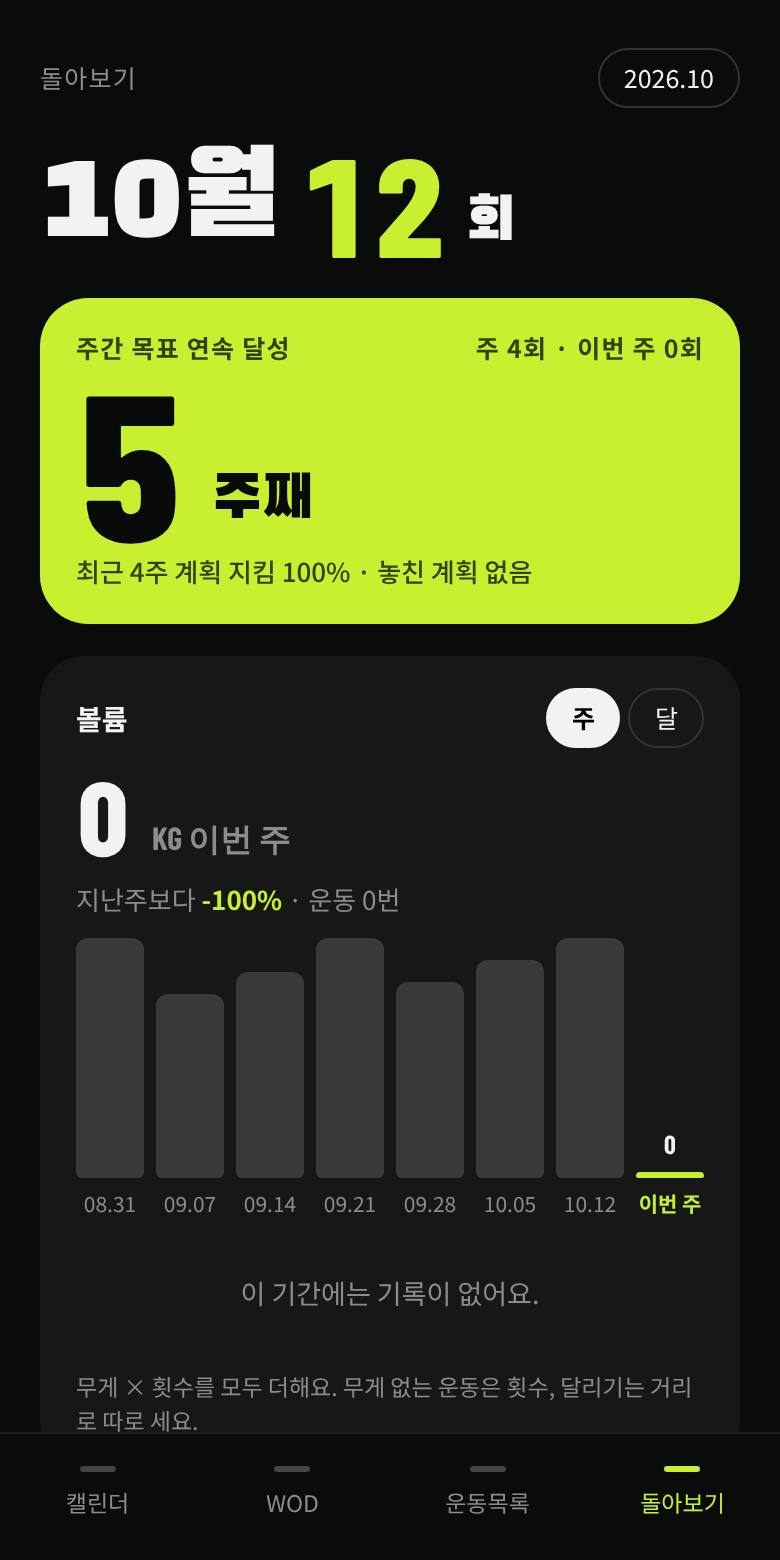
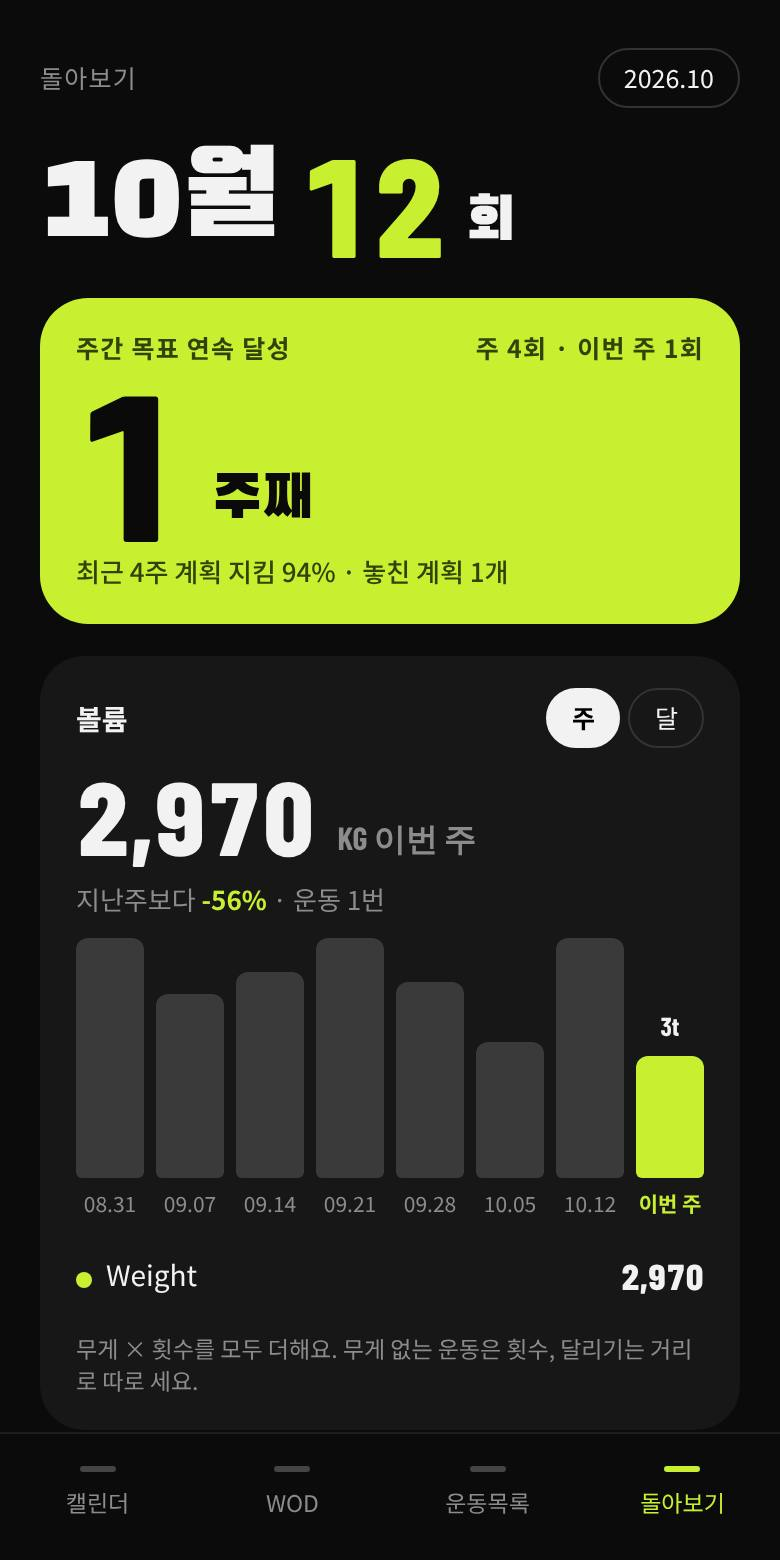
Paste a WOD text in 불러오기 to fill the card; other spellings find saved exercises
Claude-Session: https://claude.ai/code/session_019eoxjeUYsC1xCLQy9vy9QX

diff --git a/index.html b/index.html
@@ -282,6 +282,10 @@ textarea.inp{resize:vertical;min-height:70px;line-height:1.6}
 .rst{display:flex;flex-direction:column;gap:6px;justify-content:center}
 .rst button{border:1.5px solid var(--lime-ink);border-radius:10px;padding:6px 10px;font-size:12px;font-weight:800;background:none;color:var(--lime-ink)}
 .rst button.on{background:var(--lime-ink);color:var(--lime)}
+.pmv{display:grid;grid-template-columns:78px minmax(0,1fr) 80px;gap:6px;align-items:stretch}
+.pmv span{background:#000;border:1px solid #2a2a2a;border-radius:10px;padding:8px 9px;font-weight:700;font-size:14px;min-width:0;overflow-wrap:anywhere}
+.pmv .n{font-family:var(--num);font-size:17px;white-space:nowrap}
+.pmv .new{border-color:var(--orange)}.pmv small{display:block;font-size:11px;color:var(--orange)}
 .mini-p{font-size:12px;font-weight:700;border-radius:99px;padding:4px 10px;border:1px solid var(--lime);color:var(--lime);background:none}
 .mini-p.on{background:var(--lime);color:#000}
 .groupbar{position:sticky;bottom:12px;display:flex;gap:8px;align-items:center;background:#1F1F1F;border:1px solid #333;border-radius:18px;padding:10px 12px;z-index:5}
@@ -1033,7 +1037,136 @@ function exEditCard(it, i) {
 }
 /* put an exercise into the first empty row of a group, or a new row; in a 세트 group the last sets come along */
 function putMove(p, ex) { let m = p.moves.find(x => !x.n.trim()); if (!m) p.moves.push(m = blankMove()); m.n = ex.name; m.exId = ex.id; if (isSetPart(p)) fillMoveSets(m, ui.draft?.date); return m; }
-const findEx = name => state.exercises.find(e => exIs(e, name));
+/* ---------- WOD text paste (rules tested on their own first: /mnt/project-files/app/wodparse) ---------- */
+/* WOD text → card: 구성 chips (formats + number chips), exercise rows (qty, name, weight), and lines it could not read.
+   Rules only, runs on the phone. parseWod(text, exercises) → {fmts, pats, moves, notes, lines} */
+(function (root) {
+  /* exercise names people write, mapped to the app's English names; the user's own list is matched too */
+  const ALIAS = {
+    'Thruster':['thrusters','thruster','스러스터'], 'Pull-up':['pull-ups','pull ups','pullups','pull-up','pull up','pullup','풀업','턱걸이'],
+    'Chest-to-Bar Pull-up':['chest to bar pull-ups','chest-to-bar pull-ups','chest to bar','chest-to-bar','c2b pull-ups','c2b','ctb'],
+    'Push-up':['push-ups','push ups','pushups','push-up','push up','pushup','푸시업','푸쉬업'], 'Hand Release Push-up':['hand release push-ups','hand release push-up','hrpu'],
+    'Air Squat':['air squats','air squat','air sq','squats','squat','에어스쿼트','에어 스쿼트'], 'Sit-up':['sit-ups','sit ups','situps','sit-up','sit up','abmat sit-ups','abmat sit-up','싯업','윗몸일으키기'],
+    'Burpee':['burpees','burpee','버피'], 'Bar-facing Burpee':['bar facing burpees','bar-facing burpees','bar facing burpee','bfb'], 'Burpee Box Jump Over':['burpee box jump overs','burpee box jump over','bbjo'],
+    'Double Under':['double unders','double-unders','double under','double-under','dus','du','더블언더'], 'Single Under':['single unders','single-unders','single under','singles','su'],
+    'Handstand Push-up':['handstand push-ups','handstand push-up','hspu','핸드스탠드 푸시업','물구나무 푸시업'], 'Handstand Walk':['handstand walk','hs walk','hsw'],
+    'Toes-to-Bar':['toes to bar','toes-to-bar','t2b','ttb','토투바'], 'Knees-to-Elbow':['knees to elbows','knees-to-elbows','k2e'],
+    'Muscle-up':['ring muscle-ups','ring muscle ups','ring muscle-up','muscle-ups','muscle ups','muscle-up','muscle up','rmu','머슬업'], 'Bar Muscle-up':['bar muscle-ups','bar muscle ups','bar muscle-up','bmu','바 머슬업'],
+    'Box Jump':['box jumps','box jump','bj','박스점프','박스 점프'], 'Box Jump Over':['box jump overs','box jump over','bjo'], 'Box Step-up':['box step-ups','box step ups','step-ups','step ups'],
+    'Wall Ball':['wall ball shots','wall balls','wall ball','wallballs','wallball','wb','월볼'], 'Kettlebell Swing':['kettlebell swings','kettlebell swing','kb swings','kb swing','kbs','american kbs','케틀벨 스윙','케틀벨스윙'],
+    'Deadlift':['deadlifts','deadlift','dl','데드리프트','데드'], 'Sumo Deadlift High Pull':['sumo deadlift high pulls','sumo deadlift high pull','sdhp'],
+    'Back Squat':['back squats','back squat','bs','백스쿼트','백 스쿼트','스쿼트'], 'Front Squat':['front squats','front squat','fs','프론트스쿼트','프론트 스쿼트'],
+    'Overhead Squat':['overhead squats','overhead squat','ohs','오버헤드 스쿼트','오버헤드스쿼트'], 'Bench Press':['bench press','bench','bp','벤치프레스','벤치'],
+    'Overhead Press':['strict press','shoulder press','overhead press','ohp','밀리터리 프레스','오버헤드프레스'], 'Push Press':['push press','pp','푸시프레스'],
+    'Push Jerk':['push jerks','push jerk','pj','푸시저크'], 'Split Jerk':['split jerks','split jerk'], 'Shoulder to Overhead':['shoulder to overhead','shoulder-to-overhead','s2oh','sto'],
+    'Ground to Overhead':['ground to overhead','ground-to-overhead','g2oh'], 'Clean & Jerk':['clean and jerks','clean & jerks','clean and jerk','clean & jerk','c&j','cj','클린앤저크','클린 앤 저크'],
+    'Clean':['squat cleans','squat clean','cleans','clean','클린'], 'Power Clean':['power cleans','power clean','pc','파워클린','파워 클린'], 'Hang Power Clean':['hang power cleans','hang power clean','hpc','행 파워클린','행파워클린'],
+    'Hang Clean':['hang squat cleans','hang cleans','hang clean'], 'Snatch':['squat snatches','snatches','snatch','스내치'], 'Power Snatch':['power snatches','power snatch','psn','파워스내치','파워 스내치'],
+    'Hang Power Snatch':['hang power snatches','hang power snatch','hps'], 'Squat Snatch':['스쿼트 스내치'], 'Barbell Row':['bent over rows','barbell rows','barbell row','바벨로우','바벨 로우'],
+    'Lunge':['walking lunges','walking lunge','lunges','lunge','런지'], 'Overhead Lunge':['overhead walking lunges','overhead lunges','overhead lunge','oh lunges','oh lunge'],
+    'Dumbbell Snatch':['dumbbell snatches','dumbbell snatch','db snatches','db snatch','덤벨 스내치'], 'Dumbbell Thruster':['dumbbell thrusters','dumbbell thruster','db thrusters','db thruster'],
+    'Devil Press':['devil presses','devil press','데빌프레스'], 'Ring Row':['ring rows','ring row','링 로우'], 'Ring Dip':['ring dips','ring dip','dips','dip','링 딥스','딥스'],
+    'Rope Climb':['rope climbs','rope climb','rc','로프 클라임','로프클라임'], 'Pistol Squat':['pistol squats','pistols','pistol','피스톨 스쿼트','피스톨'],
+    'Back Extension':['back extensions','back extension','백 익스텐션'], 'GHD Sit-up':['ghd sit-ups','ghd sit-up','ghd situps','ghd'], 'Plank':['plank hold','plank','플랭크'],
+    'V-up':['v-ups','v ups','v-up'], 'Hollow Hold':['hollow rocks','hollow hold','hollow'], 'Burpee Pull-up':['burpee pull-ups','burpee pull-up'],
+    'Run':['running','run','러닝','달리기','런'], 'Row':['rowing','row','erg row','c2 row','로잉머신','로잉'], 'Bike':['assault bike','echo bike','air bike','bike erg','bikeerg','bike','사이클','바이크','에어바이크'],
+    'SkiErg':['ski erg','skierg','ski','스키에르그','스키'], 'Freestyle':['freestyle','swim','자유형','수영'], 'Breaststroke':['breaststroke','평영'],
+    'Farmer Carry':["farmer's carry",'farmers carry','farmer carry','파머스 캐리'], 'Sled Push':['sled push','썰매 밀기'], 'Jumping Jack':['jumping jacks','jumping jack','점핑잭'],
+    'Mountain Climber':['mountain climbers','mountain climber','마운틴 클라이머'], 'Shuttle Run':['shuttle runs','shuttle run','셔틀런'], 'Jump Rope':['jump rope','줄넘기']
+  };
+  const FMT = [ // order matters: longer first
+    ['igyg', 'I Go You Go', /\b(i\s*go\s*,?\s*you\s*go|igyg|you\s*go\s*i\s*go|ygig)\b/i],
+    ['deathby', 'Death By', /\bdeath\s*by\b/i],
+    ['tabata', 'Tabata', /\btabata\b|타바타/i],
+    ['emom', 'EMOM', /\b(e\d*mom|every\s+\d*\s*min(ute)?s?(\s+on\s+the\s+minute)?|otm)\b/i],
+    ['amrap', 'AMRAP', /\b(amrap|amraps)\b|최대한\s*많이/i],
+    ['fortime', 'For Time', /\b(for\s*time|rft|ft)\b|기록\s*단축/i],
+    ['chipper', 'Chipper', /\bchipper\b/i]
+  ];
+  const norm = s => String(s || '').toLowerCase().replace(/[’']/g, "'").replace(/\s+/g, ' ').trim();
+  /* one key for every way of writing a name: case, hyphens, spaces and a plural s don't matter (TTB = T2B = Toes to Bar = toes-to-bars) */
+  const key = s => norm(s).replace(/[-_]/g, ' ').replace(/\s+/g, ' ').trim();
+  const one = s => key(s).replace(/([a-z]{3})s$/, '$1'); // wall ball shots = wall ball shot
+  const reEsc = s => s.replace(/[.*+?^${}()|[\]\\]/g, '\\$&');
+  function dictFrom(exercises) {
+    const group = {}, d = [];
+    for (const [en, al] of Object.entries(ALIAS)) for (const a of [en, ...al]) { group[key(a)] = en; group[one(a)] ||= en; }
+    /* a name already saved in 운동목록 wins: matching any spelling gives back the saved name */
+    const saved = {};
+    for (const e of exercises || []) { const g = group[key(e.name)] || group[one(e.name)] || (e.ko && (group[key(e.ko)] || group[one(e.ko)])); if (g) saved[g] = e.name; else { group[key(e.name)] = e.name; saved[e.name] = e.name; if (e.ko) group[key(e.ko)] = e.name; } }
+    for (const [k, g] of Object.entries(group)) {
+      const hangul = /[가-힣]/.test(k), body = k.split(' ').map(reEsc).join('[\\s\\-]*');
+      d.push({k, name:saved[g] || g, known:!!saved[g], re:new RegExp(hangul ? body : `(^|[\\s/@x×*(,])(${body})(?:e?s)?(?=$|[\\s/@x×*),.:;])`, 'i')});
+    }
+    return d.sort((a, b) => b.k.replace(/ /g, '').length - a.k.replace(/ /g, '').length);
+  }
+  /* find the longest known name inside the text, on word edges */
+  function findEx(txt, dict) {
+    const t = ' ' + norm(txt).replace(/[.,;:()]/g, ' ') + ' ';
+    for (const e of dict) { const m = t.match(e.re); if (!m) continue;
+      const at = m.index + (m[1] !== undefined && m.length > 2 ? m[1].length : 0) - 1;
+      return {name:e.name, known:e.known, at, len:m[0].length - (m.length > 2 ? m[1].length : 0)}; }
+    return null;
+  }
+  const WEIGHT_RE = /(@\s*)?\(?\s*(\d+(?:\.\d+)?(?:\s*\/\s*\d+(?:\.\d+)?)?)\s*(kg|kgs|lb|lbs|#|파운드|킬로)\s*\)?|\(\s*(\d+(?:\.\d+)?\s*\/\s*\d+(?:\.\d+)?)\s*\)|@\s*(\d+(?:\.\d+)?%?)/i;
+  const QTY_RE = /^(\d+\s*[x×]\s*\d+|\d+(?:\s*-\s*\d+)+|\d+(?:\.\d+)?\s*(?:m|km|cal|cals|calories|칼로리|mi|miles?|sec|secs|s|초|min|mins|분|회|reps?|개|미터)?|max|최대|\d+:\d{2})\b\.?\s*(?:x\s+|×\s*)?/i;
+  const unitFix = q => q.replace(/\s+/g, '').replace(/^(\d+)(cals?|calories|칼로리)$/i, '$1cal').replace(/^(\d+)(reps?|회|개)$/i, '$1').replace(/^(\d+)(secs?|s|초)$/i, '$1초').replace(/^(\d+)(mins?|분)$/i, '$1분').replace(/^(\d+)미터$/, '$1m').replace(/^(\d+)[x×](\d+)$/i, '$1x$2').replace(/^(\d+(?:\.\d+)?)(mi|miles?)$/i, (_, n) => `${Math.round(n * 16.09) / 10}km`).replace(/^max$|^최대$/i, '최대');
+  function parseWod(text, exercises) {
+    const dict = dictFrom(exercises), out = {fmts:[], pats:[], moves:[], notes:[], lines:[]};
+    const addPat = (t, v) => { if (!out.pats.some(p => p.t === t && p.v === v)) out.pats.push({t, v:String(v)}); };
+    const header = line => { let hit = false, s = line, m;
+      if ((m = s.match(/(\d+)\s*(?:rounds?|rds?|rft|라운드|세트)(?![a-z])/i))) { addPat('rounds', m[1]); hit = true; s = s.replace(/(\d+)\s*(?:rounds?|rds?|라운드|세트)(?![a-z])/i, ' ').replace(/^\s*\d+\s*(?=rft)/i, ' '); }
+      for (const [id, label, re] of FMT) if (re.test(s)) { if (!out.fmts.some(f => f.id === id)) out.fmts.push({id, label}); hit = true;
+        const e = s.match(/\be(\d+)mom\b/i); if (id === 'emom' && e && +e[1] > 1) out.every = e[1];
+        s = s.replace(re, ' '); }
+      if (out.fmts.length && (m = s.match(/^\s*[x×]\s*(\d+)\s*$/i))) { addPat('rounds', m[1]); hit = true; s = ''; }
+      if ((m = s.match(/team\s*of\s*(\d+)|(\d+)\s*인\s*1?\s*팀|팀\s*(\d+)/i))) { addPat('team', m[1] || m[2] || m[3]); hit = true; s = s.replace(m[0], ' '); }
+      else if (/\b(partner|pairs?|with a partner)\b|파트너|2인/i.test(s)) { addPat('team', '2'); hit = true; }
+      if ((m = s.match(/(?:time\s*)?cap\s*:?\s*(\d+)\s*(?:min|mins|분|')?|(\d+)\s*(?:min|mins|분|')\s*(?:time\s*)?cap|타임캡\s*(\d+)/i))) { out.cap = m[1] || m[2] || m[3]; hit = true; s = s.replace(m[0], ' '); }
+      if ((m = s.match(/(\d+)\s*(?:min|mins|minutes|분|')(?!\w)/i))) { if (out.fmts.length) { addPat('time', m[1]); hit = true; s = s.replace(m[0], ' '); } }
+      else if (out.fmts.some(f => ['amrap', 'emom'].includes(f.id)) && (m = s.match(/^\s*:?\s*(\d+)\s*$/))) { addPat('time', m[1]); hit = true; s = ''; }
+      if ((m = s.match(/(?:^|\s)(\d+(?:\s*-\s*\d+){1,})(?:\s|$)/))) { addPat('scheme', m[1].replace(/\s+/g, '')); hit = true; s = s.replace(m[1], ' '); }
+      return hit && !findEx(s, dict) ? true : hit ? s : false;
+    };
+    for (let raw of String(text || '').split(/\r?\n/)) {
+      let line = raw.replace(/^\s*(?:[-–•·▪►>]+|\d+[.)]\s+|[a-z][.)]\s+)/i, '').trim();
+      if (!line) continue;
+      if (/^(warm[\s-]?up|cool[\s-]?down|strength|metcon|wod|skill|score|rest|오늘의\s*(와드|wod)|daily\s*wod)\b\s*:?\s*$/i.test(line) || /^오늘의\s*(와드|wod)\s*$/i.test(line)) { out.lines.push({raw, kind:'skip'}); continue; }
+      const cm = line.match(/(?:time\s*)?cap\s*:?\s*(\d+)|(\d+)\s*(?:min|mins|분|')\s*(?:time\s*)?cap|타임캡\s*(\d+)/i);
+      if (cm && !findEx(line, dict)) { out.cap = cm[1] || cm[2] || cm[3]; out.lines.push({raw, kind:'fmt'}); continue; }
+      if (/^\*|^note|^메모|^\(/i.test(line) && !findEx(line, dict)) { out.notes.push(line.replace(/^\*\s*/, '')); out.lines.push({raw, kind:'note'}); continue; }
+      const h = header(line);
+      if (h === true) { out.lines.push({raw, kind:'fmt'}); continue; }
+      if (typeof h === 'string') line = h.trim();
+      const ex = findEx(line, dict);
+      if (!ex) { if (h) { out.lines.push({raw, kind:'fmt'}); continue; } out.notes.push(line); out.lines.push({raw, kind:'note'}); continue; }
+      let rest = norm(line), w = '', q = '';
+      const wm = line.match(WEIGHT_RE);
+      if (wm) { w = wm[2] ? wm[2].replace(/\s+/g, '') + ({'#':'lb', lbs:'lb', kgs:'kg', '파운드':'lb', '킬로':'kg'}[wm[3].toLowerCase()] || wm[3].toLowerCase()) : wm[4] ? wm[4].replace(/\s+/g, '') + 'kg' : wm[5]; rest = norm(line.replace(wm[0], ' ')); }
+      const before = rest.slice(0, Math.max(0, findEx(rest, dict)?.at ?? 0)).trim(), after = rest.slice((findEx(rest, dict)?.at ?? 0) + (findEx(rest, dict)?.len ?? 0)).trim();
+      const qm = before.match(QTY_RE) || after.replace(/^[x×*:]\s*/, '').match(QTY_RE);
+      if (qm) q = unitFix(qm[1]);
+      if (/^cal\b|^calorie/i.test(after) && /^\d+$/.test(q)) q += 'cal';
+      if (/^(m|meter|미터)\b/i.test(after) && /^\d+$/.test(q)) q += 'm';
+      const known = ex.known;
+      out.moves.push({q, n:ex.name, w, isNew:!known});
+      out.lines.push({raw, kind:'move'});
+    }
+    if (out.cap) out.notes.unshift(`타임캡 ${out.cap}분`);
+    if (out.every) out.notes.unshift(`${out.every}분마다`);
+    const f = out.fmts[0]?.id;
+    out.res = f === 'amrap' ? 'rr' : f === 'fortime' || f === 'igyg' || f === 'chipper' ? 'time' : f === 'tabata' ? 'reps' : f === 'deathby' ? 'rr' : f === 'emom' ? 'text' : 'text';
+    if (out.pats.some(p => p.t === 'scheme')) out.moves.forEach(m => { if (m.q === out.pats.find(p => p.t === 'scheme').v) m.q = ''; });
+    return out;
+  }
+  /* a typed exercise name written another way (t2b, toes-to-bars) → the saved exercise's name, or '' */
+  function sameEx(txt, exercises) { const k = key(txt); if (!k) return '';
+    const f = findEx(txt, dictFrom(exercises)); return f && f.known && f.at <= 0 && f.len >= k.replace(/ /g, '').length - 2 ? f.name : ''; }
+  root.parseWod = parseWod; root.sameEx = sameEx;
+})(typeof window !== 'undefined' ? window : globalThis);
+
+/* a name written another way (t2b, toes-to-bars) finds the saved exercise too */
+const findEx = name => state.exercises.find(e => exIs(e, name)) || (name && String(name).trim() && state.exercises.find(e => e.name === sameEx(name, state.exercises)));
 /* WOD card: each part is a frame (format + pattern) followed by its exercises; a frame can be inserted between exercises */
 function usage() { const c = {}; for (const s of state.sessions) for (const it of s.items) { if (it.type === 'ex') c[it.exId] = (c[it.exId] || 0) + 1; else wodMoves(it).forEach(m => { if (m.exId) c[m.exId] = (c[m.exId] || 0) + 1; }); } return c; }
 /* one 방식 row: tap to pick or unpick, several at once; a chip with N shows its number box below */
@@ -1143,7 +1276,7 @@ function wodCard(it, i) {
   const savedIn = it.wodId && (state.mine.find(w => w.id === it.wodId)?.col || (state.mine.some(w => w.id === it.wodId) ? 'mine' : state.named.some(w => w.id === it.wodId && w.own) && state.wodTabs.some(x => x.k === 'named') ? 'named' : '')), mine = !!savedIn;
   return `<div class="card wc">
     <div class="row between" style="gap:8px"><input class="inp big" data-wn="${i}" value="${esc(it.name)}" placeholder="${tpl ? 'WOD 제목' : 'Daily WOD'}" aria-label="WOD 제목" style="font-family:var(--num);font-weight:800;font-size:28px;padding:6px 10px">
-      ${it.wodId && !tpl ? '<span class="pill lime">불러옴</span>' : ''}${tpl ? '' : `<button class="pill" style="font-size:12px;padding:5px 10px;white-space:nowrap" data-action="pick-wod" data-i="${i}">불러오기</button>`}${tpl || curItems().length < 2 ? '' : `<button class="icon" data-action="remove-item" data-i="${i}" aria-label="WOD 빼기">✕</button>`}</div>
+      ${it.wodId && !tpl ? '<span class="pill lime">불러옴</span>' : ''}<button class="pill" style="font-size:12px;padding:5px 10px;white-space:nowrap" data-action="pick-wod" data-i="${i}">${tpl ? '글 붙여넣기' : '불러오기'}</button>${tpl || curItems().length < 2 ? '' : `<button class="icon" data-action="remove-item" data-i="${i}" aria-label="WOD 빼기">✕</button>`}</div>
     ${tpl ? '' : `<div class="row" style="gap:6px;flex-wrap:wrap">${cats().map(c => `<button class="chip sm" aria-pressed="${cardCat(it) === c.k}" data-action="card-cat" data-i="${i}" data-v="${c.k}"><i class="dot" style="background:${c.color}"></i>${esc(c.label)}</button>`).join('')}</div>`}
     ${it.parts.map((p, pi) => partHtml(it, i, p, pi)).join('')}
     ${freq.length ? `<div class="lbl">자주 한 운동</div><div class="chips2">${freq.map(e => `<button class="c2" data-action="mv-quick" data-i="${i}" data-id="${e.id}">${esc(e.name)}</button>`).join('')}</div>` : ''}
@@ -1363,9 +1496,34 @@ function sheetPickEx() {
     <input class="search" id="pickQ" type="search" placeholder="운동 검색" value="${esc(ui.pickQ)}" aria-label="운동 검색">
     <div class="chips">${[{k:'all', label:'전체'}, ...exCats()].map(c => `<button class="chip sm" aria-pressed="${ui.pickCat === c.k}" data-action="pick-cat" data-v="${c.k}">${c.label}</button>`).join('')}</div>
     <div id="pickList" style="display:flex;flex-direction:column;gap:10px">${pickList()}</div>`
-  : `<div class="row between"><h2 class="disp" style="font-size:30px">WOD 불러오기</h2>${ui.swapCard != null && !isBlankCard(curItems()[ui.swapCard] || {parts:[]}) ? '<span class="sub" style="font-size:12px">지금 카드 내용이 바뀌어요</span>' : ''}<button class="pill" data-action="close-sheet">닫기</button></div>
-    <input class="search" id="pickQ" type="search" placeholder="WOD 검색" value="${esc(ui.pickQ)}" aria-label="WOD 검색">
-    <div id="pickList" style="display:flex;flex-direction:column;gap:10px">${pickList()}</div>`);
+  : `<div class="row between"><h2 class="disp" style="font-size:30px">${ui.page === 'tpl' ? '글 붙여넣기' : 'WOD 불러오기'}</h2>${ui.swapCard != null && !isBlankCard(curItems()[ui.swapCard] || {parts:[]}) ? '<span class="sub" style="font-size:12px">지금 카드 내용이 바뀌어요</span>' : ''}<button class="pill" data-action="close-sheet">닫기</button></div>
+    ${pasteBox()}
+    ${ui.paste?.r || ui.page === 'tpl' ? '' : `<input class="search" id="pickQ" type="search" placeholder="저장한 WOD 찾기" value="${esc(ui.pickQ)}" aria-label="WOD 검색">
+    <div id="pickList" style="display:flex;flex-direction:column;gap:10px">${pickList()}</div>`}`);
+}
+/* 글 붙여넣기: paste a WOD text, check what was read, then fill the card */
+const PASTE_FMT = {chipper:'fortime'};
+const PASTE_PAT = {scheme:v => v, rounds:v => `${v} 라운드`, time:v => `${v}분`, team:v => `Team of ${v}`};
+function pasteBox() {
+  const P = ui.paste || {text:''}, r = P.r;
+  if (!r) return `<div class="card" style="border:1px solid var(--lime);gap:8px"><div class="row between"><b style="color:var(--lime)">글 붙여넣기</b><span class="sub" style="font-size:12px">단톡방·인스타 WOD</span></div>
+    <textarea class="inp" id="pasteT" rows="4" placeholder="여기에 WOD 글을 붙여넣어요" aria-label="WOD 글" style="font-size:16px;min-height:96px">${esc(P.text)}</textarea>
+    <button class="btn lime" data-action="paste-read">알아보기</button></div>`;
+  const sch = r.pats.find(x => x.t === 'scheme')?.v || '';
+  const chips = [...r.fmts.slice(0, 1).map(f => f.label), ...r.pats.map(x => PASTE_PAT[x.t]?.(x.v)).filter(Boolean)];
+  return `<div class="card" style="border:1px solid var(--lime);gap:10px"><div class="eb">알아본 내용 · 맞는지 보고 넣어요</div>
+    <div class="eb">구성</div><div class="chips2">${chips.map(c => `<span class="c2 on">${esc(c)}</span>`).join('') || '<span class="sub">못 찾았어요</span>'}</div>
+    <div class="eb">운동</div>${r.moves.map(m => `<div class="pmv"><span class="n">${esc(m.q || sch || '-')}</span><span class="t${m.isNew ? ' new' : ''}">${esc(m.n)}${m.isNew ? '<small>새 운동 · 저장하면 운동목록에 추가</small>' : ''}</span><span class="n">${esc(m.w || '-')}</span></div>`).join('') || '<span class="sub">못 찾았어요</span>'}
+    ${r.res !== 'text' ? `<div class="row between"><span class="eb">결과 형식</span><span class="c2 on">${RES_TYPES[r.res].label}</span></div>` : ''}
+    ${r.notes.length ? `<div class="eb">메모로 들어가는 줄</div><div class="sub">${r.notes.map(esc).join('<br>')}</div>` : ''}
+    <div class="row" style="gap:8px"><button class="btn out small" style="flex:1" data-action="paste-again">다시 붙여넣기</button><button class="btn lime small" style="flex:1.6" data-action="paste-apply" ${r.moves.length || r.fmts.length || r.pats.length ? '' : 'disabled'}>카드에 넣기</button></div></div>`;
+}
+function pasteItem(r, base) {
+  const fid = r.fmts[0] && (PASTE_FMT[r.fmts[0].id] || r.fmts[0].id), f = fid && (state.formats.find(x => x.id === fid) || DEF_FORMATS.find(x => x.id === fid));
+  const pats = r.pats.map((x, k) => { const t = chipById(x.t) || DEF_PATTERNS.find(y => y.id === x.t); return t ? {...patFrom(t, x.v), at:0, o:k} : null; }).filter(Boolean);
+  const it = wodItem({id:null, name:base?.name || '', resT:r.res !== 'text' ? r.res : undefined, parts:[{fmt:f ? fmtCopy(f) : {...NO_FMT}, fmtAt:0, fmtO:-1, pats, moves:r.moves.map(m => ({n:m.n, q:m.q.replace(/^(\d+)$/, '$1'), w:m.w}))}]});
+  it.wodId = null; if (base?.cat) it.cat = base.cat;
+  return it;
 }
 function sheetWod(id) {
   ui.sheet = () => sheetWod(id);
@@ -1560,7 +1718,13 @@ const A = {
   'add-ex': el => { if (ui.pickFor) { const f = ui.pickFor, p = curItems()[f.i]?.parts[f.pi], ex = exById(el.dataset.id); if (p && ex) putMove(p, ex); ui.pickFor = null; closeSheet(); render(true); return; }
     const it = exItem(el.dataset.id, ui.draft.date); ui.draft.items.push(it); closeSheet(); render(true); toast(it.prefilled ? '지난 기록을 채웠어요' : '운동을 추가했어요'); setTimeout(() => $('#screen').scrollTo({top:$('#screen').scrollHeight, behavior:'smooth'}), 30); },
   'record-daily': () => openEditor(newDraft(recordDate())),
-  'pick-wod': el => { ui.pickFor = null; ui.swapCard = el.dataset.i !== undefined ? +el.dataset.i : null; ui.pickQ = ''; sheetPickEx(); },
+  'paste-read': () => { const t = $('#pasteT')?.value || ''; if (!t.trim()) { toast('WOD 글을 붙여넣어 주세요'); return; } ui.paste = {text:t, r:parseWod(t, state.exercises)}; refreshSheet(); },
+  'paste-again': () => { ui.paste = {text:ui.paste?.text || ''}; refreshSheet(); $('#pasteT')?.focus(); },
+  'paste-apply': () => { const r = ui.paste?.r; if (!r) return; const items = curItems(), k = ui.swapCard ?? 0, it = pasteItem(r, items[k]);
+    items[k] = it; ui.swapCard = null;
+    if (r.notes.length) { if (ui.page === 'tpl') ui.tdraft.note = [ui.tdraft.note, ...r.notes].filter(Boolean).join('\n'); else ui.draft.memo = [ui.draft.memo, ...r.notes].filter(Boolean).join('\n'); }
+    ui.paste = null; closeSheet(); render(true); toast('카드에 넣었어요. 맞는지 보고 고쳐 주세요'); },
+  'pick-wod': el => { ui.paste = null; ui.pickFor = null; ui.swapCard = el.dataset.i !== undefined ? +el.dataset.i : null; ui.pickQ = ''; sheetPickEx(); },
   'add-daily': () => { ui.draft.items.push(dailyItem()); closeSheet(); render(true); setTimeout(() => { const t = document.querySelectorAll('[data-wn]'); t[t.length - 1]?.closest('.card')?.scrollIntoView({block:'start'}); }, 30); },
   'chip-add': el => sheetChipAdd(+el.dataset.i, +el.dataset.pi),
   'chip-add-pick': el => { const i = el.dataset.i, pi = el.dataset.pi, p = curItems()[+i].parts[+pi], x = chipById(el.dataset.v); if (!x) return;

diff --git a/sw.js b/sw.js
@@ -1,4 +1,4 @@
-const C = 'setlog-1792412139040';
+const C = 'setlog-1792463959606';
 const CORE = ['./', 'index.html', 'manifest.webmanifest', 'icon-192.png', 'icon-512.png', 'apple-touch-icon.png', 'guide/1.jpg', 'guide/2.jpg', 'guide/3.jpg', 'guide/4.jpg', 'guide/5.jpg'];
 self.addEventListener('install', e => { e.waitUntil(caches.open(C).then(c => c.addAll(CORE)).then(() => self.skipWaiting())); });
 self.addEventListener('activate', e => { e.waitUntil(caches.keys().then(ks => Promise.all(ks.filter(k => k !== C).map(k => caches.delete(k)))).then(() => self.clients.claim())); });
